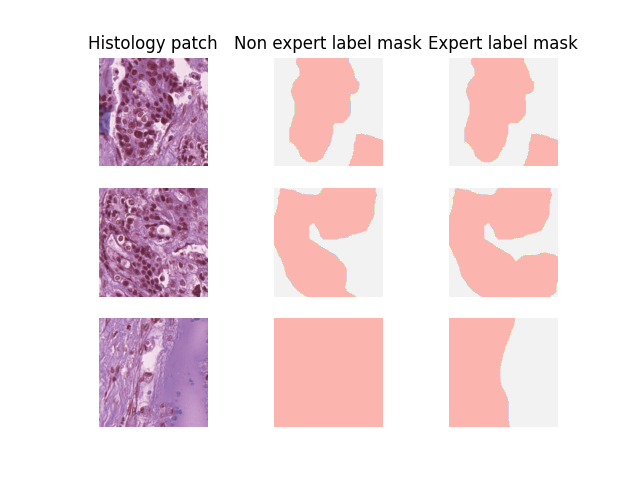
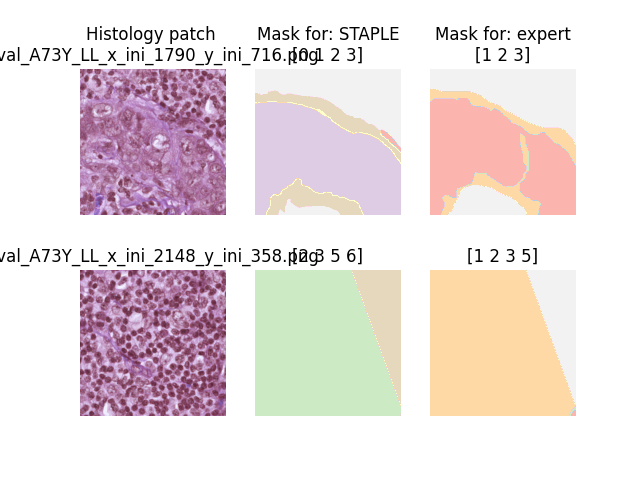
all\refac: #68 labels debugging
- modified visualizer util for debugging strange classes in masks

diff --git a/core/seg_tgce/data/crowd_seg/visualizer.py b/core/seg_tgce/data/crowd_seg/visualizer.py
@@ -2,6 +2,7 @@ import os
 from typing import Tuple
 
 import matplotlib.pyplot as plt
+import numpy as np
 from cv2 import imread  # pylint: disable=no-name-in-module
 
 
@@ -9,12 +10,13 @@ class BaseDirectoryNotFoundError(Exception):
     pass
 
 
-def visualize_data(  # pylint: disable=too-many-locals
+def visualize_data(  # pylint: disable=too-many-locals, too-many-arguments
     x_ini_values: Tuple[int, ...],
     y_ini_values: Tuple[int, ...],
     labelers: Tuple[str, str],
     base_path: str,
     save_path: str,
+    patch_tag: str,
 ) -> None:
     """
     Simple routine for visualizing some patches and masks
@@ -29,40 +31,35 @@ def visualize_data(  # pylint: disable=too-many-locals
             )
 
         img_path = (
-            f"{base_path}/patches/Train/core_A0AL_AN_x_ini_{x_ini}_y_ini_{y_ini}.png"
-        )
-        non_expert_mask_path = (
-            f"{base_path}/masks/Train/{labelers[0]}/"
-            f"core_A0AL_AN_x_ini_{x_ini}_y_ini_{y_ini}.png"
-        )
-        expert_mask_path = (
-            f"{base_path}/masks/Train/{labelers[1]}/"
-            f"core_A0AL_AN_x_ini_{x_ini}_y_ini_{y_ini}.png"
+            f"{base_path}/patches/Train/{patch_tag}_x_ini_{x_ini}_y_ini_{y_ini}.png"
         )
 
         img = imread(img_path)
-        non_expert_mask = imread(non_expert_mask_path, -1)
-        expert_mask = imread(expert_mask_path, -1)
-
         axes[i, 0].imshow(img)
+        img_title = ("Histology patch \n" if i == 0 else "") + img_path.split("/")[-1]
+        axes[i, 0].set_title(img_title)
         axes[i, 0].axis("off")
-        axes[i, 1].imshow(non_expert_mask, cmap="Pastel1")
-        axes[i, 1].axis("off")
-        axes[i, 2].imshow(expert_mask, cmap="Pastel1")
-        axes[i, 2].axis("off")
 
-        if i == 0:
-            axes[i, 0].set_title("Histology patch")
-            axes[i, 1].set_title("Non expert label mask")
-            axes[i, 2].set_title("Expert label mask")
+        for p, (labeler) in enumerate(labelers):
+            mask_path = (
+                f"{base_path}/masks/Train/{labeler}/"
+                f"{patch_tag}_x_ini_{x_ini}_y_ini_{y_ini}.png"
+            )
+            mask = imread(mask_path, -1)
+            axes[i, p + 1].imshow(mask, cmap="Pastel1")
+            axes[i, p + 1].axis("off")
+            mask_title = (
+                f"Mask for: {labeler}\n" if i == 0 else ""
+            ) + f"{np.unique(mask)}"
+            axes[i, p + 1].set_title(mask_title)
     fig.savefig(save_path)
     plt.show()
 
 
 if __name__ == "__main__":
-    x_ini_values = 1074, 1432, 2148
-    y_ini_values = 1074, 1432, 2148
-    labelers = "NP1", "expert"
+    x_ini_values = (1790, 2148)
+    y_ini_values = (716, 358)
+    labelers = ("STAPLE", "expert")
     BASE_PATH = "../../../datasets/Histology Data"
     SAVE_PATH = "../docs/source/resources/crowd-seg-example-instances.png"
     visualize_data(
@@ -71,4 +68,5 @@ if __name__ == "__main__":
         labelers=labelers,
         base_path=BASE_PATH,
         save_path=SAVE_PATH,
+        patch_tag="eval_A73Y_LL",
     )
